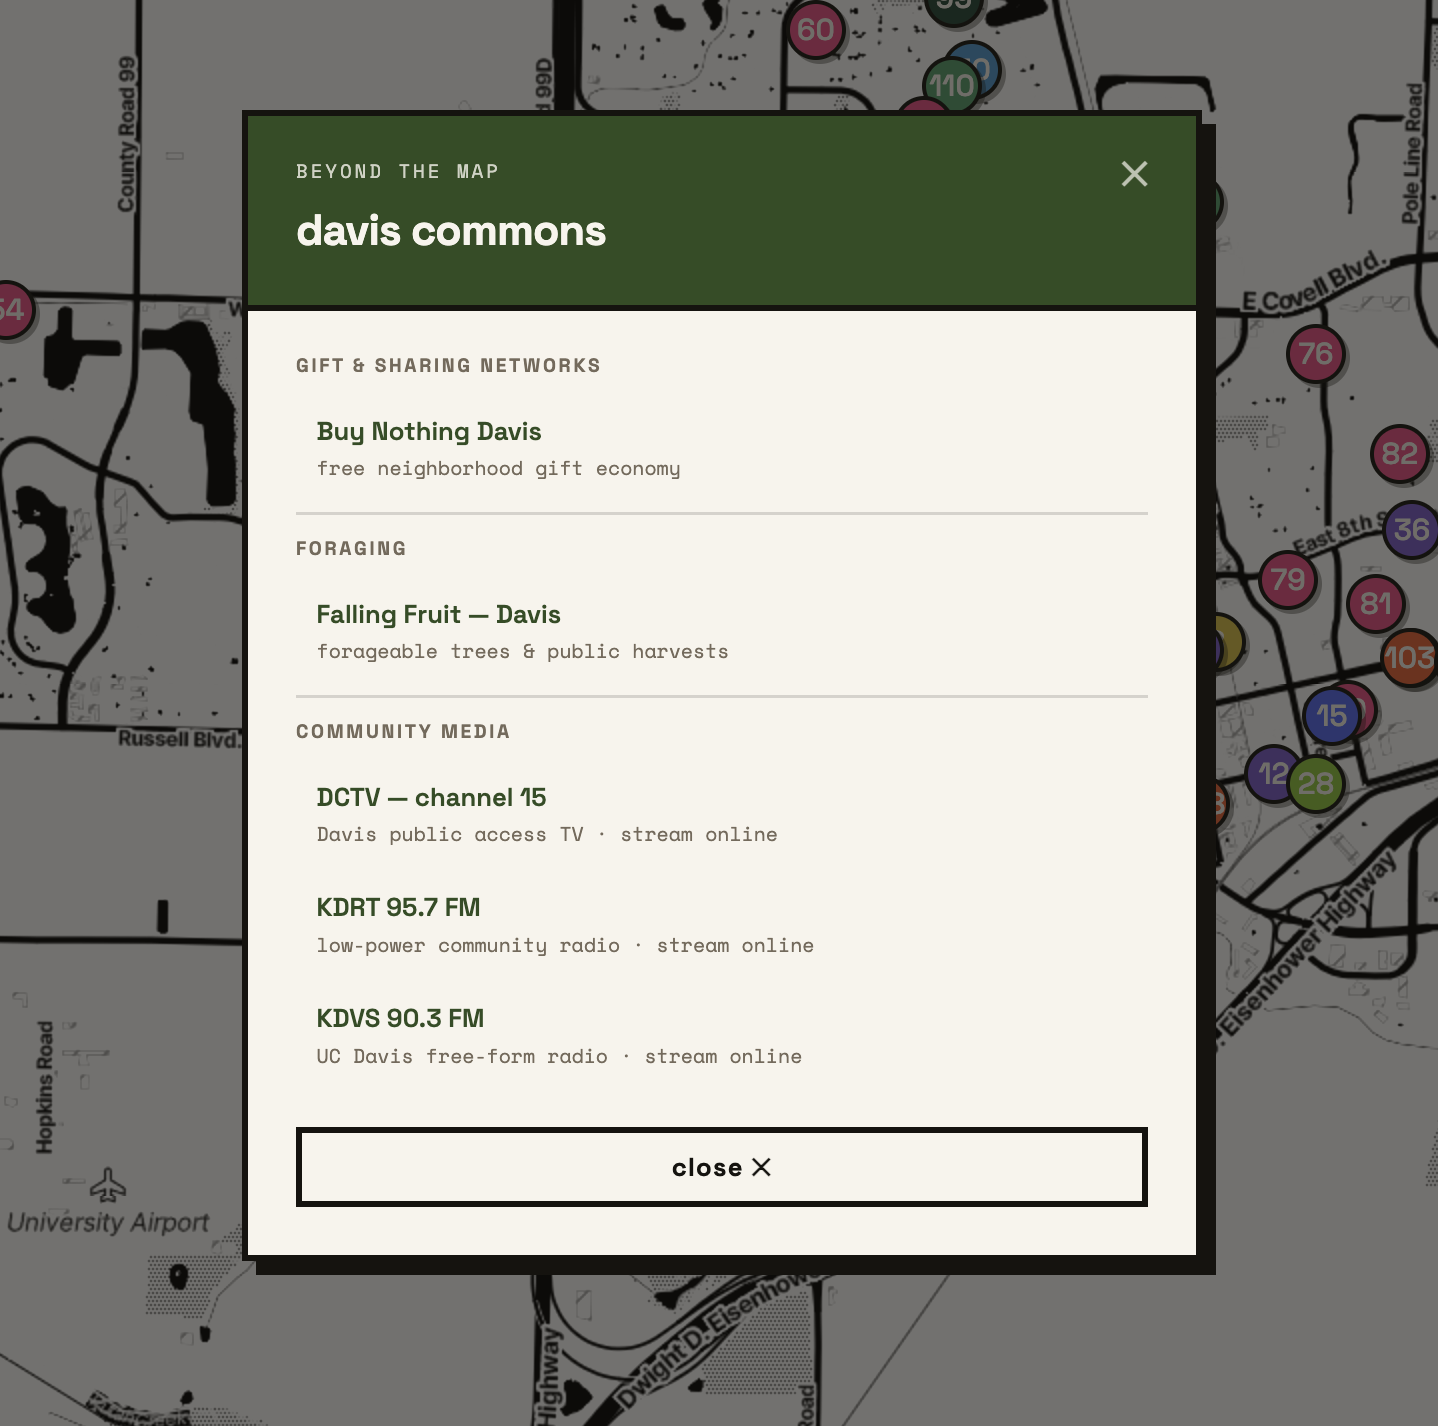
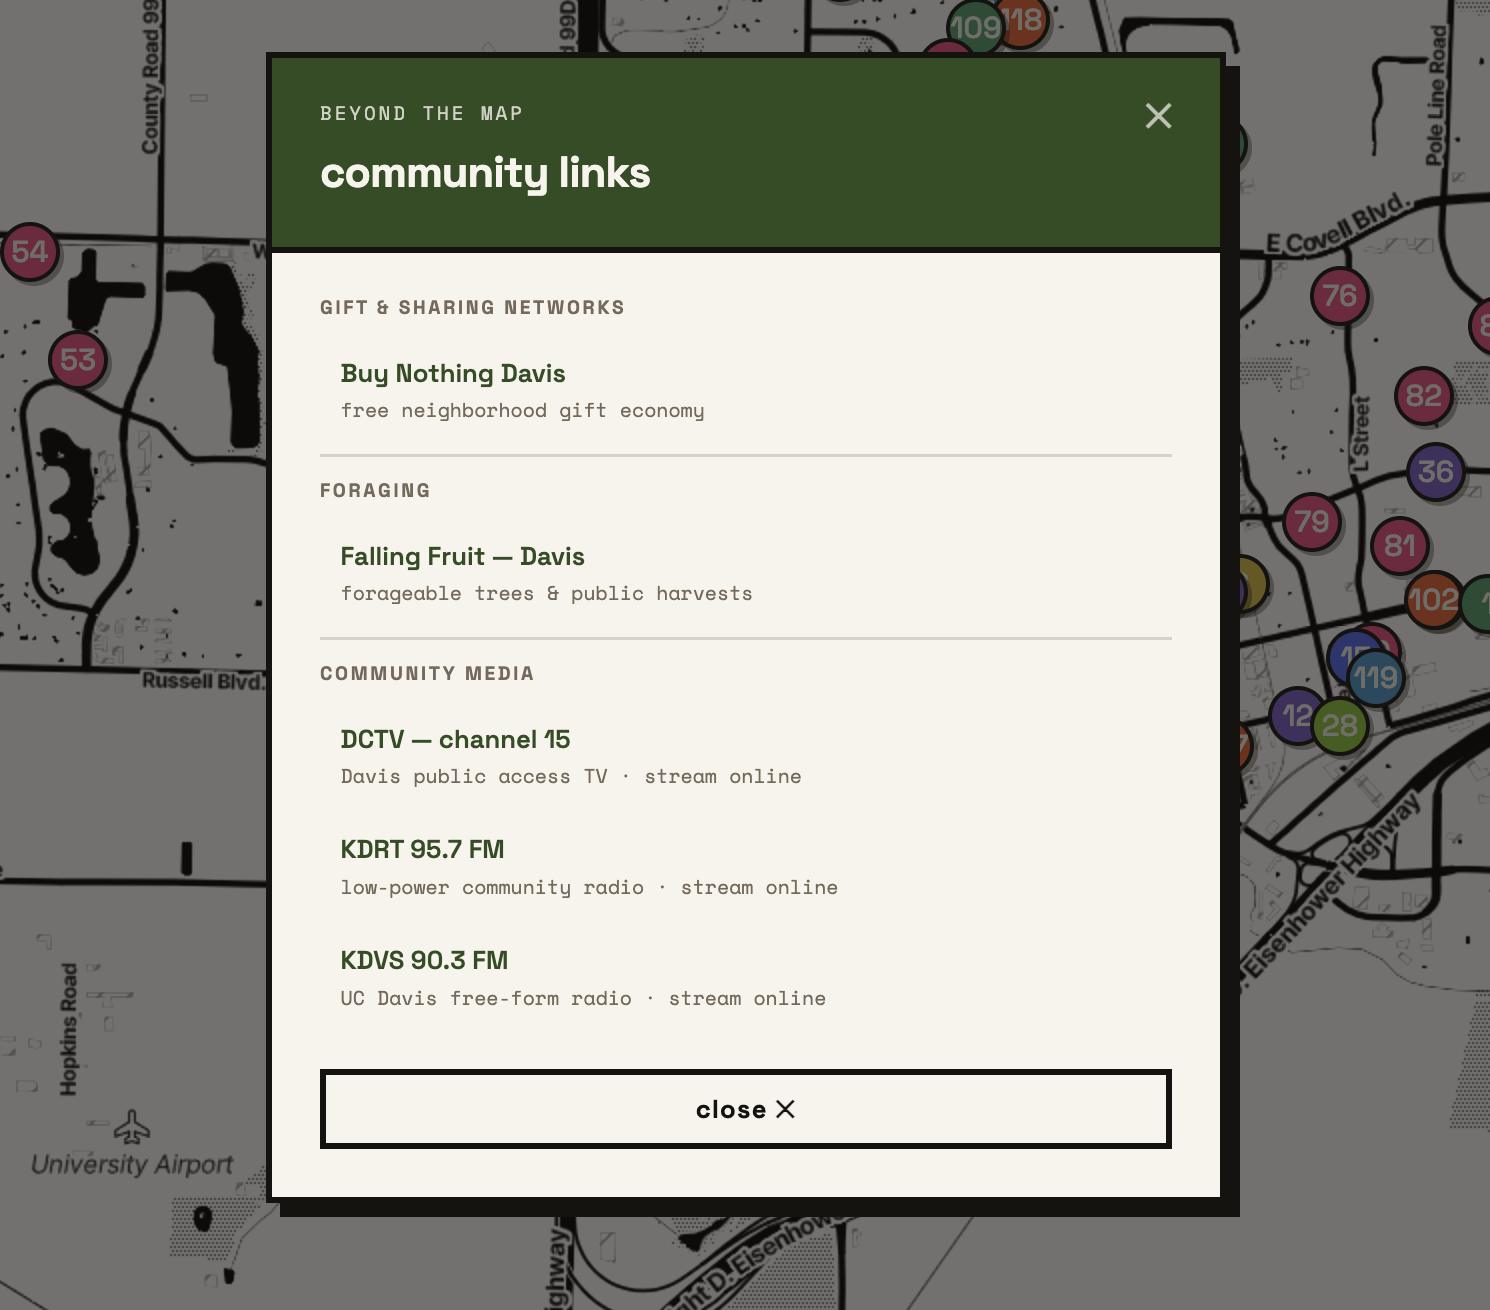
open grounds

diff --git a/projects/opengrounds.html b/projects/opengrounds.html
@@ -47,10 +47,13 @@ PROJECT STORY
     <section class="projectsection">
         <h2>overview</h2>
         <p>
-            open:grounds is a self-directed summer design challenge i decided to create after noticing a gap in accessible community mapping tools. each challenge focuses on one project, worked through in multiple sprints, built around that gap in accessibility and community infrastructure. the work lives at <a href="https://opengrounds.github.io" target="_blank" rel="noopener">opengrounds.github.io ↗</a>, a central project directory where each challenge gets its own space as it goes live.
+            open:grounds is a self-directed 2026 summer design challenge i decided to create after noticing a gap in accessible community mapping tools. each challenge focuses on one project, worked through in multiple sprints, built around that gap in accessibility and community infrastructure. the work lives at <a href="https://opengrounds.github.io" target="_blank" rel="noopener">opengrounds.github.io ↗</a>, a central project directory where each challenge gets its own space as it goes live.
         </p>
         <p>
-            the first challenge is a citizen-built map of shared, free, and mutual-aid resources in davis, ca, now live at <a href="https://opengrounds.github.io/davis-commons/" target="_blank" rel="noopener">opengrounds.github.io/davis-commons ↗</a>. i built this project due to the dealing with the mess of multiple maps and links trying to find one common need, free or low-cost resources. i'm a bit of a scrappy indivdual i'd say, i'm always in love with community focused initatives, citizen collaborated resources, and staying on a budget.the first project that made me fall in love with collaborative mapping was <a href="https://fallingfruit.org" target="_blank" rel="noopener">falling fruit ↗</a> which allows users to contribute and update information about fruiting trees around the world. i dived into finding more resrouces like these. i learned about buy nothing groups, community fridges, and mutual aid networks but couldn't find a single place to access all of them. i wanted to make something that made it easier for people to find and connect with these resources, and also contribute to them if they want to, one central hub for all these resouces so you didn't have to search through multiple sources! i think this project achieves just that!
+            the project that started it all was my idea of creating a citizen-built map of shared, free, and mutual-aid resources for davis, calfornia. that project is now live at <a href="https://opengrounds.github.io/davis-commons/" target="_blank" rel="noopener">opengrounds.github.io/davis-commons ↗</a>. i built this project due to the dealing with the mess of multiple maps and links trying to find one common need, free or low-cost resources. i am a bit of a scrappy indivdual i'd say. i am always in love with community focused initatives, citizen collaborated resources, and staying thrifty and on a budget. the first project that made me fall in love with collaborative mapping was <a href="https://fallingfruit.org" target="_blank" rel="noopener">falling fruit ↗</a> which allows users to contribute and update information about fruiting trees around the world. it was from this collaborative mapping project that i dived into finding more citizen science and community built platforms. i learned about buy nothing groups, community fridges, and mutual aid networks but couldn't find a single place to access all of them, most often to find them involved already being in the know. i wanted to make something that made it easier for people to find and connect with these resources, and also contribute to them if they want to, one central hub for all these resouces so you didn't have to search through multiple sources! i think this project achieves just that!
+        </p>
+        <p>
+            and of course like with every project i've ever done, i branched out into so many other ideas and possibilies. since this is a self-directed challenge, i had the freedom to divulge into these possibilities and didn't hold back. this project has so many directions it can go into and i am so excited to see where it goes, even in the future past this summer. below you'll find a summary of each project that is so far being worked on and a link to the live project. i hope you enjoy exploring them as much as i enjoyed building them! 
         </p>
     </section>
 
@@ -64,7 +67,7 @@ PROJECT STORY
         </figure>
 
         <p>
-            the main page is designed to grow alongside the work. each project appears as a house on an interactive grid, connected by dashed lines. the davis map house is fully illustrated and clickable. the others are drawn as outlines with scaffolding and dashed strokes, visually communicating that they're under construction. as sprints finish, houses get built out. it's like a neighborhood of projects, each with its own story and character, but all part of the same community.
+            to me this project is like a neighborhood, so many unique projects and ideas can be built and explored, but they all share a common goal of accessibility and community. the main page is designed to be a hub for all the projects, with each project appearing as a house node on a grid. if the site is live it looks like a fully built house, if its being built is partially colored and constructed. showing the project in progress and this layout helps users can easily navigate between projects and see how they all connect to the larger goal of open:grounds even if they're not fully realized yet, it evens gives people a chance to see how they can be involved if they have knowledge in a subject being developed.
         </p>
     </section>
 
@@ -75,6 +78,11 @@ PROJECT STORY
         <figure>
             <img src="../images/projects/openground/interface.png" alt="the open:grounds interface showing sidebar filters and map view">
             <figcaption>the davis map at desktop width, sidebar and map view side by side</figcaption>
+        </figure>
+
+        <figure>
+            <img src="../images/projects/openground/closeup.png" alt="close up of the map showing clustered markers across davis">
+            <figcaption>markers across davis, clustered by resource type</figcaption>
         </figure>
 
         <p>
@@ -113,17 +121,70 @@ PROJECT STORY
         </figure>
 
         <p>
-            not everything fits as a map pin. Resources like the Buy Nothing Davis, Falling Fruit foraging data, DCTV public access TV, KDRT and KDVS community radio all sit in a separate "davis commons" panel alongside the map. These are a curated list of things that are part of the shared fabric of the town but live in different places and formats.
+            not everything fits as a map pin. Resources like the Buy Nothing Davis, Falling Fruit foraging data, DCTV public access TV, KDRT and KDVS community radio all sit in a separate "community links" panel alongside the map. These are a curated list of things that are part of the shared fabric of the town but live in different places and formats.
         </p>
     </section>
 
     <section class="projectsection">
-        <h2>closeup</h2>
+        <h2>management and maintenance</h2>
+        <p>
+            now i'm sure your first questions is "how do i maintain this?", well thanks for asking your question because lets dive into that as it's an important question indeed! the project is built on a static site hosted on github pages, with data stored in a parse server (back4app). this means that the map and its data can be updated without needing to redeploy the entire site. the submission and correction forms are connected to the parse server, allowing for easy management of user contributions. now the main thing that i wanted to tackle (which i feel odd to admit was my first time ever creating as a web-designer) was creating a design system that can be maintained by someone other than me, someone who has zero coding experience. i wanted to make sure that the project could be maintained by anyone, even if they didn't have a background in web development. as a result i've created an admin page that isn't linked but i'll show you a bit of what it looks like here. the admin page allows for easy management of submissions, corrections, and community links. it also provides a way to update the map and its data without needing to touch the codebase and lets users edit and manage the content for any errors. this is a crucial aspect of the project, as it ensures that the map remains up-to-date and relevant for the community.
+        </p>
+        <figure>
+            <img src="../images/projects/openground/btsdavis1.png" alt="behind the scenes admin page">
+            <figcaption>the home page of the admin page</figcaption>
+        </figure>
+        <p>
+            the admin page shows a list of all pending submissions first then lets you see any currently existing data, correction submissions, and allows me to quickly edit and manage any static data that is on the map. this is a crucial aspect of the project, as it ensures that the map remains up-to-date and relevant for the community. 
+        </p>
+        <figure>
+            <img src="../images/projects/openground/btsdavis2.png" alt="behind the scenes admin page showing a pending submission ready to be pushed live">
+            <figcaption>the new davis library was a pending task to add from a community member! this allows me to redrag the coordinates to update the location if it shows up in the wrong place and edit any information, in this case i added more about what ammentites would be added</figcaption>
+        </figure>
+        <figure>
+            <img src="../images/projects/openground/btsdavis3.png" alt="a list of corrections submitted by users">
+            <figcaption>the corrections submissions, one which is pending review</figcaption>
+        </figure>
+        <p>
+            the admin page also allows for easy management of user contributions to currently existing data, making it simple to approve or reject corrections, then links the data point its that is referenced. here we see some corrections that have been submitted by users, one of which is pending review. this allows me to quickly see what needs to be addressed and make any necessary changes to the data. it links the data point that is referenced based on finding matching keywords, then links the manual data tab where i scroll down to find the data point and make any necessary changes based on the feedback. 
+        </p>
+        <figure>
+            <img src="../images/projects/openground/datajs.png" alt="the file itself that contains all the data points for the map">
+            <figcaption>the data.js file containing all the data points for the map, i mean who would want to edit that by hand?</figcaption>
+        </figure>
+       <p>
+         above is my current problem at hand, and the reason why i realized i needed to really create this admin page. even i myself want nothing to do with keeping this file update!!!
+       </p>
+        <figure>
+            <img src="../images/projects/openground/btsdavis5.png" alt="the manual data tab showing a list of all data points and their details">
+            <figcaption>the manual data tab showing a list of all data points and their details</figcaption>
+        </figure>
+        <p>
+            since the site is hosted on github and there are some more static data points orginally added these need to be manually copied and pasted so the site fetches the currently available data and lets you edit the copy and paste the fully document back in the admin page also allows for easy management of user contributions, making it simple to approve or reject submissions and corrections.
+        </p>
 
         <figure>
-            <img src="../images/projects/openground/closeup.png" alt="close up of the map showing clustered markers across davis">
-            <figcaption>markers across davis, clustered by resource type</figcaption>
+            <img src="../images/projects/openground/btsdavis4.png" alt="all the submissions of locations in one area.">
+            <figcaption>all the submissions of locations in one area</figcaption>
         </figure>
+        <p>
+            here we see all the location submissions in one area, its a great way to see what is being submitted and what the davis community has an interest in!
+        </p>
+
+        <figure>
+            <img src="../images/projects/openground/btscoordinates.png" alt="a coordinate interface">
+            <figcaption>a coordinate interface for adjusting locations</figcaption>
+        </figure>
+        <p> 
+            lastly for the davis commons project itself, and something that i can use for future projects, is a coordinate interface that allows me to adjust the coordinates of any location that is submitted. the main project takes addresses and fetches them for coordinates to place on the map, if there are no coordinates given by a user. sometimes however these coordinates are wrong, and to fetch so many of them it makes the website load forrrrever! while the admin page allows me to edit coordinates and drag on the interface itself, this was more helpful for any preadded data points that were already on the map with the data.js file. it also proved helpful for future projects that were not linked to the davis commons admin page. it goes through the same process of allowing you to input an address then fetches the coordinates, but then allows me to drag the coordinate to a better spot, then lets me copy and paste the coordinates to my data.js file since it looks a mess as you saw before.
+        </p>
+    </section>
+
+    <section class="projectsection">
+        <h2>more coming soon!</h2>
+        <p>
+            as i said this project is ongoing and there are so many more ideas and possibilities to explore. i am excited to continue developing open:grounds and see where it goes in the future. stay tuned for more updates and new projects! i'm currently working on a blog that will provide updates as well on the project and its progress, as well as a place for community members to share their own experiences and stories related to shared resources and community building. check out the blog here: <a href="https://opengrounds.github.io/blog/" target="_blank" rel="noopener noreferrer">open:grounds blog ↗</a>. i hope to create a space where people can connect, learn, and contribute to the open:grounds community. if you're interested in getting involved or have any ideas for future projects, please reach out! i'm always looking for collaborators and contributors who share the same passion for accessibility and community.
+        </p>
     </section>
 
 </main>
